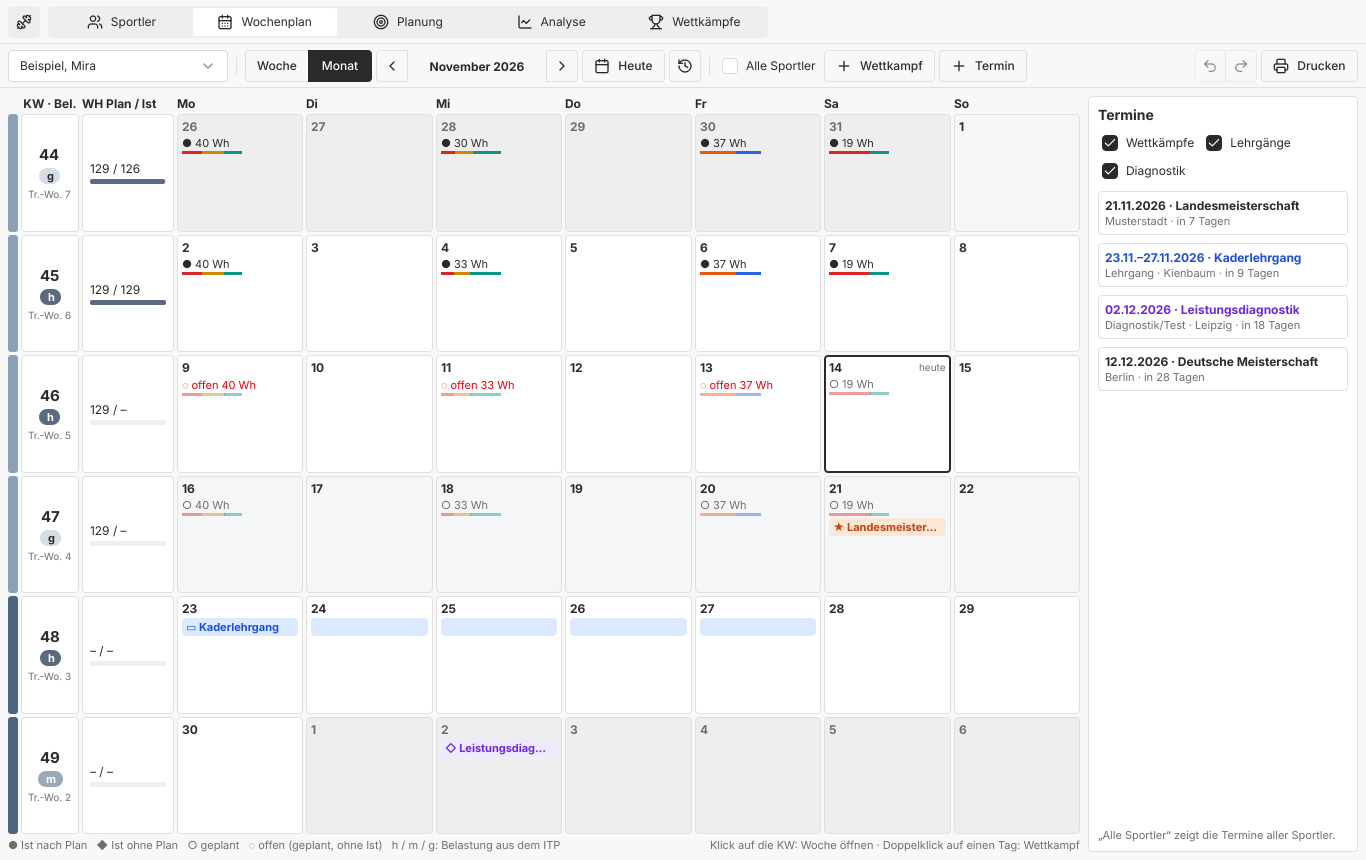
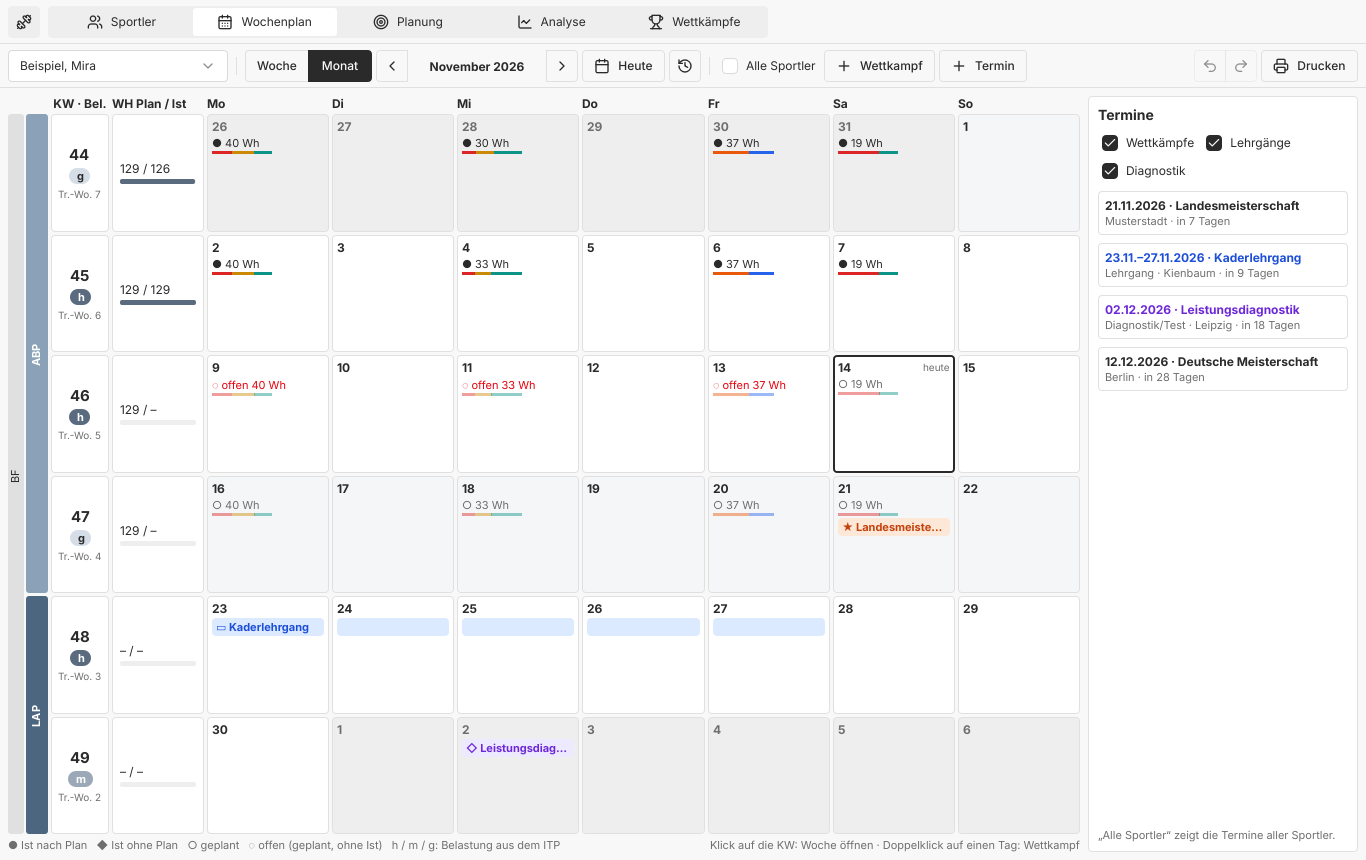
Show the MAZ and its phases as bands in the month
IDA lays the plan over its calendar as stacked bars: the macrocycle,
its phases GLP/ABP/LAP over the weeks they span, and h/m/g per week.
The month had only a thin unlabelled stripe per week for the phase,
so a coach could not read which MAZ a week belongs to or where a
phase ends without hovering over each week.

The left edge now carries two bands: the MAZ with its short name and
its phases with IDA's abbreviations, each joined over its weeks and
labelled once. The printout gains a Phase column. h/m/g stays the
chip it was, which is IDA's per-week row.

diff --git a/qml/MonthView.qml b/qml/MonthView.qml
@@ -52,6 +52,78 @@ Item {
 
     readonly property var s: Styles.TokenInterface.semantics
     readonly property var loadColor: ({ h: "#5b6b7f", m: "#9aa8b8", g: "#d5dde6" })
+    readonly property var phaseColor: ({ GLP: "#c3cfdb", ABP: "#8aa1b8", LAP: "#4d6680" })
+
+    // The plan's bands, as IDA lays them over its calendar: the MAZ, and
+    // under it its phases, each over the weeks it spans
+    function bandKey(week, kind) {
+        const maz = week && week.maz && week.maz.id ? week.maz.id : ""
+        if (kind === "maz" || maz === "")
+            return maz
+        return week.phaseShort ? maz + "|" + week.phaseShort : ""
+    }
+    function joins(i, j, kind) {
+        const weeks = monthData.weeks || []
+        if (j < 0 || j >= weeks.length)
+            return false
+        const key = bandKey(weeks[i], kind)
+        return key !== "" && key === bandKey(weeks[j], kind)
+    }
+    // The weeks of the band from week i on (its label is drawn over them)
+    function runLength(i, kind) {
+        let n = 1
+        while (joins(i, i + n, kind))
+            ++n
+        return n
+    }
+
+    // One week's piece of a band: joined to the next above and below, its
+    // label from the band's first week of the month over all its weeks
+    component BandPiece: Item {
+        id: piece
+        property int index
+        property string kind
+        property color color
+        property color textColor
+        property string label
+        property string tip
+        property real rowSpacing: 3
+        readonly property bool above: view.joins(index, index - 1, kind)
+        readonly property bool below: view.joins(index, index + 1, kind)
+        readonly property bool on: view.bandKey((view.monthData.weeks || [])[index], kind) !== ""
+        Layout.fillHeight: true
+        Rectangle {
+            visible: piece.on
+            anchors.fill: parent
+            anchors.topMargin: piece.above ? -piece.rowSpacing : 0
+            anchors.bottomMargin: piece.below ? -piece.rowSpacing : 0
+            radius: 3
+            color: piece.color
+            // Square where it goes on
+            Rectangle { visible: piece.above; width: parent.width; height: 4; color: piece.color }
+            Rectangle { visible: piece.below; width: parent.width; height: 4; anchors.bottom: parent.bottom; color: piece.color }
+        }
+        Item {
+            visible: piece.on && !piece.above
+            width: piece.width
+            height: view.runLength(piece.index, piece.kind) * (piece.height + piece.rowSpacing) - piece.rowSpacing
+            Label {
+                objectName: piece.kind + "Label"
+                anchors.centerIn: parent
+                width: parent.height - 6
+                rotation: -90
+                horizontalAlignment: Text.AlignHCenter
+                elide: Text.ElideRight
+                font.pixelSize: 11
+                font.bold: piece.kind === "phase"
+                color: piece.textColor
+                text: piece.label
+            }
+            HoverHandler { id: bandHover }
+            ToolTip.visible: bandHover.hovered && piece.tip !== ""
+            ToolTip.text: piece.tip
+        }
+    }
 
     RowLayout {
         anchors.fill: parent
@@ -66,7 +138,7 @@ Item {
             RowLayout {
                 Layout.fillWidth: true
                 spacing: 3
-                Label { Layout.preferredWidth: 10 }
+                Item { Layout.preferredWidth: 40; visible: !view.allAthletes }
                 Label { Layout.preferredWidth: 58; text: "KW · Bel."; font.bold: true; horizontalAlignment: Text.AlignHCenter }
                 Label { Layout.preferredWidth: 92; text: "WH Plan / Ist"; font.bold: true; visible: !view.allAthletes }
                 Repeater {
@@ -94,17 +166,36 @@ Item {
                     Layout.preferredHeight: 1
                     spacing: 3
 
-                    // The MAZ's phase down the left edge
-                    Rectangle {
-                        Layout.preferredWidth: 10
+                    // The MAZ and its phase down the left edge, as bands
+                    // over their weeks; each row above the next
+                    // (a label goes down over the rows after its first)
+                    z: (view.monthData.weeks || []).length - index
+                    RowLayout {
+                        Layout.preferredWidth: 40
                         Layout.fillHeight: true
-                        radius: 3
-                        color: weekRow.modelData.phase === "Leistungsausprägung" ? "#4d6680"
-                               : weekRow.modelData.phase === "Aufbauphase" ? "#8aa1b8"
-                               : weekRow.modelData.phase !== "" ? "#c3cfdb" : "transparent"
-                        HoverHandler { id: phaseHover }
-                        ToolTip.visible: phaseHover.hovered && weekRow.modelData.phase !== ""
-                        ToolTip.text: weekRow.modelData.phase
+                        visible: !view.allAthletes
+                        spacing: 2
+                        BandPiece {
+                            objectName: "mazBand"
+                            Layout.preferredWidth: 16
+                            index: weekRow.index
+                            kind: "maz"
+                            color: view.s.stroke_subtle
+                            textColor: view.s.text_default
+                            label: weekRow.modelData.maz ? weekRow.modelData.maz.short || "" : ""
+                            tip: weekRow.modelData.maz && weekRow.modelData.maz.id
+                                 ? "MAZ " + weekRow.modelData.maz.name + " (" + weekRow.modelData.maz.weeks + ")" : ""
+                        }
+                        BandPiece {
+                            objectName: "phaseBand"
+                            Layout.preferredWidth: 22
+                            index: weekRow.index
+                            kind: "phase"
+                            color: view.phaseColor[weekRow.modelData.phaseShort] || "transparent"
+                            textColor: weekRow.modelData.phaseShort === "GLP" ? view.s.text_default : "white"
+                            label: weekRow.modelData.phaseShort || ""
+                            tip: weekRow.modelData.phase || ""
+                        }
                     }
 
                     // Week number and load; a click opens the week

diff --git a/tests/tst_month.qml b/tests/tst_month.qml
@@ -83,6 +83,13 @@ Item {
             compare(dayOf(f, "2031-03-03").sessions[0].state, "planned")
             compare(f.weeks[1].phase, "Grundlagenphase")
             compare(f.weeks[3].phase, "Aufbauphase")
+            // The bands over the calendar: the MAZ and its phases as IDA
+            // writes them, the week before the MAZ without
+            compare(f.weeks.map(w => w.phaseShort), ["", "GLP", "GLP", "ABP", "ABP", "LAP"])
+            compare([f.weeks[0].maz.id, f.weeks[1].maz.short, f.weeks[5].maz.weeks], [undefined, "MM", "10/2031 – 14/2031"])
+            // and in the printout a column after the KW
+            compare(f.report.blocks[0].rows[0][1].t, "Phase")
+            compare(f.report.blocks[0].rows[6][1].t, "LAP")
             compare(f.upcoming[0].name, "DM Jugend")
         }
 
@@ -108,6 +115,31 @@ Item {
             compare(Store.competitions(athlete).find(x => x.date === "2020-03-07").bestSnatch, 52)
             verify(Store.competitions(athlete).some(x => x.date === "2020-03-14"))
             Store.removeCompetition(athlete, "2020-03-14", "")
+        }
+
+        // A band's label once, at its first week of the month; the next
+        // weeks carry on its colour
+        function test_bands() {
+            page.athleteId = athlete
+            page.monday = future
+            page.showMonth(true)
+            const view = findChild(page, "monthView")
+            tryCompare(view, "visible", true)
+            tryVerify(() => findChild(view, "monthWeek5") !== null)
+            waitForRendering(page)
+            const label = (row, band) => {
+                const piece = findChild(findChild(view, "monthWeek" + row), band)
+                const l = findChild(piece, band === "mazBand" ? "mazLabel" : "phaseLabel")
+                return l.parent.visible ? l.text : null
+            }
+            compare([0, 1, 2, 3, 4, 5].map(r => label(r, "phaseBand")), [null, "GLP", null, "ABP", null, "LAP"])
+            compare([0, 1, 2, 5].map(r => label(r, "mazBand")), [null, "MM", null, null])
+            // Over its two weeks
+            const glp = findChild(findChild(findChild(view, "monthWeek1"), "phaseBand"), "phaseLabel").parent
+            const rows = findChild(view, "monthWeek2")
+            fuzzyCompare(glp.height, findChild(view, "monthWeek1").height + 3 + rows.height, 1)
+            // Back to the week
+            page.showMonth(false)
         }
 
         function test_monthView() {

diff --git a/qml/HelpDialog.qml b/qml/HelpDialog.qml
@@ -148,6 +148,7 @@ AppDialog {
                           + "oben, „Vorwoche“ zeigt die Woche davor darüber; wie viele Einheiten pro Tag die Woche zeigt, "
                           + "steht unter Einstellungen › Trainingszeiten. Unter der Woche setzen h, m und g ihre Belastung "
                           + "(hoch, mittel, gesenkt), dieselbe wie im ITP unter „Bel.“. „Monat“ zeigt den Monat mit Belastung, "
+                          + "links als Bänder den MAZ und seine Phasen (GLP, ABP, LAP), "
                           + "Einheiten und Wettkämpfen; ein Doppelklick auf einen Tag trägt einen Wettkampf ein, "
                           + "„Alle Sportler“ zeigt die Termine aller; „+ Termin“ trägt einen Lehrgang oder eine Diagnostik ein, oben in der Terminliste lassen sich die Arten ein- und ausblenden. „Verlauf“ zeigt den Belastungsverlauf: Gewicht einer "
                           + "Übung und Wiederholungen über die Wochen des MAZ, gegen das ITP, mit Ideallinie.<br><br>"

diff --git a/src/store.cpp b/src/store.cpp
@@ -220,6 +220,18 @@ QString phaseOf(const Maz &z, const QDate &monday)
     return QString();
 }
 
+// The phase as IDA writes it over its calendar: GLP, ABP, LAP
+QString phaseShort(const QString &phase)
+{
+    if (phase == QStringLiteral("Leistungsausprägung"))
+        return QStringLiteral("LAP");
+    if (phase == QLatin1String("Aufbauphase"))
+        return QStringLiteral("ABP");
+    if (phase == QLatin1String("Grundlagenphase"))
+        return QStringLiteral("GLP");
+    return QString();
+}
+
 } // namespace
 
 Store::Store(QObject *parent) : QObject(parent) {}
@@ -1924,7 +1936,9 @@ QVariantMap Store::month(const QString &athleteId, const QString &firstOfMonth, 
     doc.title = title + (allAthletes ? QStringLiteral(" – alle Sportler")
                                      : (who.isEmpty() ? QString() : QStringLiteral(" – ") + who.first().second));
     QList<Report::Cells> rows;
-    rows.append(Report::cells({QStringLiteral("KW"), QStringLiteral("Bel."), QStringLiteral("WH Plan/Ist"),
+    // The phase only for one athlete: everyone's MAZ differ
+    rows.append(Report::cells({QStringLiteral("KW"), allAthletes ? QString() : QStringLiteral("Phase"),
+                               QStringLiteral("Bel."), QStringLiteral("WH Plan/Ist"),
                                QStringLiteral("Mo"), QStringLiteral("Di"), QStringLiteral("Mi"), QStringLiteral("Do"),
                                QStringLiteral("Fr"), QStringLiteral("Sa"), QStringLiteral("So")}));
 
@@ -1949,8 +1963,13 @@ QVariantMap Store::month(const QString &athleteId, const QString &firstOfMonth, 
         }
         QString phase;
         int countdown = 0;
+        // The MAZ the week lies in, as the band over the phases
+        QVariantMap maz;
         for (const Maz &z : std::as_const(mazs)) {
             if (z.from.isValid() && z.to.isValid() && monday >= z.from && monday <= z.to) {
+                maz = {{QStringLiteral("id"), z.id}, {QStringLiteral("name"), z.name},
+                       {QStringLiteral("short"), z.shortName.isEmpty() ? z.name : z.shortName},
+                       {QStringLiteral("weeks"), Weeks::label(z.from) + QStringLiteral(" – ") + Weeks::label(z.to)}};
                 phase = phaseOf(z, monday);
                 countdown = Planning::trainingWeek(z, Planning::mainCompetitionWeek(z, athleteId), monday);
                 break;
@@ -1962,8 +1981,10 @@ QVariantMap Store::month(const QString &athleteId, const QString &firstOfMonth, 
         w.insert(QStringLiteral("whPlan"), whPlan);
         w.insert(QStringLiteral("whActual"), whActual);
         w.insert(QStringLiteral("phase"), phase);
+        w.insert(QStringLiteral("phaseShort"), phaseShort(phase));
+        w.insert(QStringLiteral("maz"), maz);
 
-        Report::Cells row = Report::cells({QString::number(monday.weekNumber()), Planning::loadText(load),
+        Report::Cells row = Report::cells({QString::number(monday.weekNumber()), phaseShort(phase), Planning::loadText(load),
                                            (whPlan > 0 ? QString::number(whPlan) : QStringLiteral("–"))
                                                + QStringLiteral(" / ")
                                                + (whActual > 0 ? QString::number(whActual) : QStringLiteral("–"))});

diff --git a/docs/RESEARCH-IDA-RTK.md b/docs/RESEARCH-IDA-RTK.md
@@ -123,7 +123,7 @@ M days, L a week or more.
 | 8 | **TMK targets as caps** (done, November 2026: RO and ITP show such a value red with the reason, the RO for the youngest of its MAZ; Reißen and Stoßen are free in a WK/HWK week, and the RTK's four ROs stay within the TMK in every training week): warn when a planned BW % is above the TMK value for the athlete's stage, or K4/K6 is used below its age | TMK 2018 | S–M |
 | 9 | **Volume norms per stage** (done, November 2026: a dashed line over the WH bars of the Belastungsverlauf, a step where the age changes, and the norm per complex in the grid's column tips; the RTK's ROs meet it on average, U13 201, U15 289, U17 358, U20 299) as a reference line (K1-7: 200/280/350/300/320/300 WH a week; 350 the upper limit in U17) | TMK 2018, RTK-Online | S |
 | 10 | Countdown "Tr.-Wo." to the main competition (done, November 2026: a Tr.-Wo. column in ITP and RO, in the week line, the month's week cell and the Belastungsverlauf's hover and table; the main competition is the last HWK of the ITP, else of the RO, else the MAZ's last week; LG/WK/HWK shown in the month and above the chart's bars), LG/WK/HWK per week in ITP, month and Belastungsverlauf | RO PDFs | S |
-| 11 | Plan phases and h/m/g as bands in the month view | IDA p.9 | S–M |
+| 11 | Plan phases and h/m/g as bands in the month view (done, November 2026: IDA p.9 stacks Makrozyklus, Mesozyklus GLP/ABP/LAP and Mikrozyklus h/m/g as bars over its calendar weeks; the month now has a MAZ band with its Kurzbezeichnung and a phase band with GLP/ABP/LAP down the left edge, each joined over its weeks and labelled once, and a Phase column in the printout. h/m/g already stood as a coloured chip per week, which is IDA's Mikrozyklus row) | IDA p.9 | S–M |
 | 12 | Planned set size (SG) in RO and ITP. First check whether WinWoTA had it | IDA p.10–12 | M |
 
 ### Week plan and print

diff --git a/docs/HANDBUCH.md b/docs/HANDBUCH.md
@@ -282,7 +282,12 @@ K1-7 und K1-5 auch die Wiederholungen der allgemeinen Kraftübungen
 
 **Monat** zeigt vier bis sechs Wochen auf einmal:
 
-- links je Woche die Kalenderwoche mit ihrer **Belastung** (h/m/g farbig),
+- ganz links wie in IDA zwei Bänder über die Wochen: der **MAZ** mit
+  seiner Kurzbezeichnung (`BF`) und darunter seine **Phasen**: GLP
+  (Grundlagen-), ABP (Aufbau-) und LAP (Leistungsausprägungsphase), je
+  dunkler, desto näher am Wettkampf. Die Maus darüber nennt MAZ und
+  Wochen bzw. die Phase. Der Ausdruck führt die Phase als eigene Spalte;
+- daneben je Woche die Kalenderwoche mit ihrer **Belastung** (h/m/g farbig),
   der WK-Lage aus dem ITP (LG, WK, HWK), **Tr.-Wo.** (die Wochen bis zum
   Hauptwettkampf) und den Wiederholungen **Plan / Ist** (`129 / 126`);
 - in den Tagen die Einheiten: ● Ist nach Plan, ◆ Ist ohne Plan, ○ geplant,
